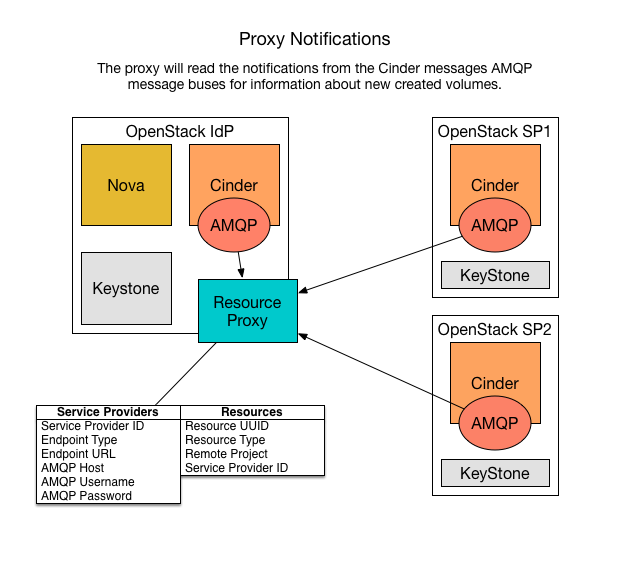
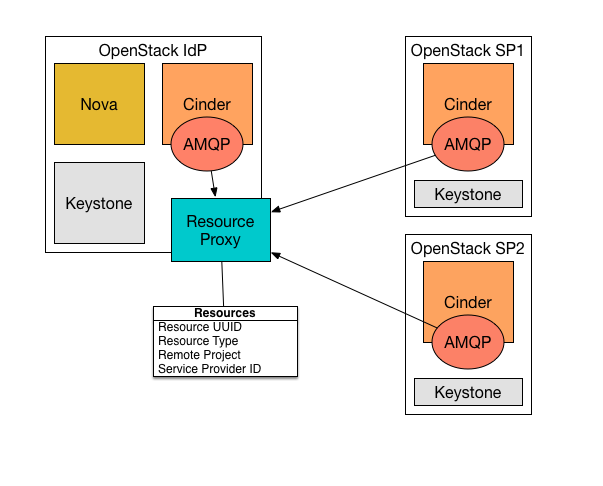
updated architecture docs

diff --git a/docs/architecture.rst b/docs/architecture.rst
@@ -1,7 +1,19 @@
+============
 Architecture
 ============
 
-.. image:: images/Notifications.png
+The proxy is designed to substitute an endpoint in the service catalog.
+When a user/service requests the proxied service for a specific resource
+(volume, image, etc), the proxy will analyze the URL of the request to
+figure out the type of the resource and the UUID of the resource and '
+forward the request to the correct service provider, getting a token through
+K2K and using that for the remote endpoint. It will then forward the response
+back.
 
 .. image:: images/SequenceDiagram.png
 
+To gather the information about the location of the resources, the proxy listens
+to the notifications message bus for messages which describe the creation of new
+resources, and stores that location information into the database.
+
+.. image:: images/Notifications.png
